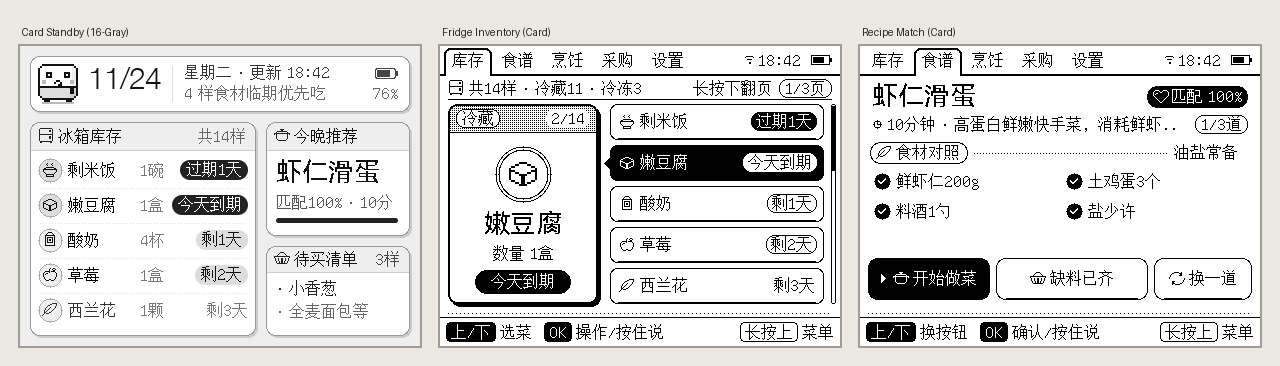
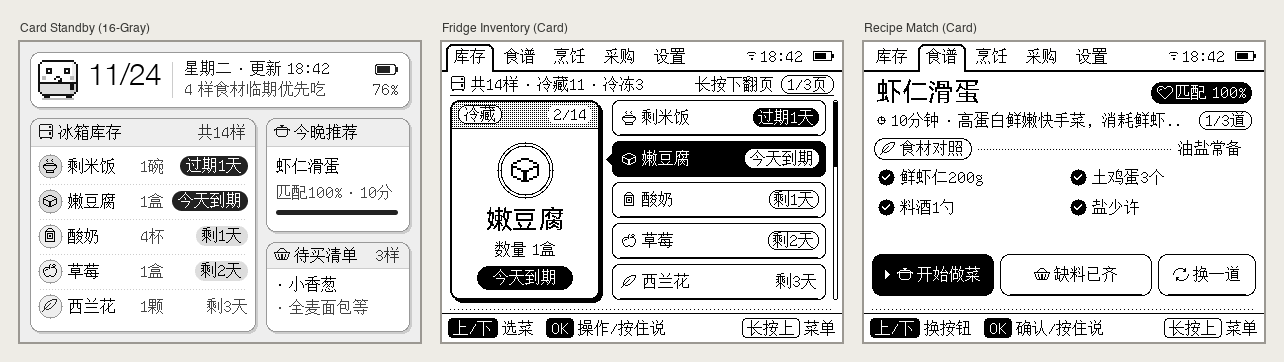
docs(v0.0.3): 更新16灰阶待机封面预览图与v0.0.3刷机说明

diff --git a/README.md b/README.md
@@ -11,8 +11,8 @@
 - **全机双主题同步换肤（手机网页一键切换，立即全刷生效）**
   - **极简高级风**（默认）：MUJI / Apple / Kindle 视觉体系，去杂纹、大留白、细线下划线页签与纯粹瑞士网格排版，从待机到交互与弹窗零割裂。
   - **温馨圆角卡片风**：保留 13 套手绘像素食材图标与温暖手账圆角卡片手感，配套精修无割裂 16 灰阶卡片待机海报。
-- **5 套真 16 灰阶（4bpp）抗锯齿待机封面**
-  - 全部采用**大号抗锯齿日期主角 + 小字更新时间戳**（每天早起自动刷新一次全天不穿帮，唤醒期右上角时钟每分钟静默局刷）；可在手机网页「设置」中随时切换：`MUJI 瑞士双栏日历`、`Apple 极简大日历`、`Kindle 单向历书页`、`原研哉 黑白撞色海报`、`温馨圆角卡片看板`。
+- **5 套真 16 灰阶（4bpp）抗锯齿待机封面 & 3 分钟防残影自动休眠**
+  - 全部采用**大号抗锯齿日期主角 + 均衡黑白灰层级 + 小字更新时间戳**（每天早起自动刷新一次全天不穿帮）；电池供电时无操作 **3 分钟**自动全刷回到 16 灰阶待机封面并深睡停止局刷，唤醒交互期同步收紧局刷次数自动全刷清残影。可在手机网页「设置」中随时切换：`MUJI 瑞士双栏日历`、`Apple 极简大日历`、`Kindle 单向历书页`、`原研哉 黑白撞色海报`、`温馨圆角卡片看板`。
 - **库存管理 + 长按下键整页连翻**
   - 支持最多 **80 样**食材；绝不虚构保质期（未设到期天数时如实显示「今天放入 / 已放 N 天」）。
   - 左焦详情 + 右列 5 项清单，食材超过 5 样时**按住下键即可连续整页翻页**、松手即停不冲过头。
@@ -48,8 +48,8 @@
 
 | 文件名 | 烧录起始地址 | 适用场景 |
 | :--- | :---: | :--- |
-| `zectrix-fridge-v0.0.2-merged-0x0.bin` | `0x0` | **首次安装 / 全新刷入（推荐）**：单文件已合并 bootloader、分区表与主程序 |
-| `zectrix-fridge-v0.0.2-app-0x20000.bin` | `0x20000` | **老版本升级**：仅覆盖应用分区，保留你已有的冰箱库存、菜谱与 Wi-Fi 配置 |
+| `zectrix-fridge-v0.0.3-merged-0x0.bin` | `0x0` | **首次安装 / 全新刷入（推荐）**：单文件已合并 bootloader、分区表与主程序 |
+| `zectrix-fridge-v0.0.3-app-0x20000.bin` | `0x20000` | **老版本升级**：仅覆盖应用分区，保留你已有的冰箱库存、菜谱与 Wi-Fi 配置 |
 | `SHA256SUMS.txt` | — | 固件 SHA-256 校验值 |
 
 ---
@@ -73,9 +73,9 @@
    esptool.py --chip esp32s3 -p <你的串口> -b 460800 \
      --before default_reset --after hard_reset \
      write_flash --flash_mode dio --flash_size 16MB --flash_freq 80m \
-     0x0 zectrix-fridge-v0.0.2-merged-0x0.bin
+     0x0 zectrix-fridge-v0.0.3-merged-0x0.bin
    ```
-   *(若已刷过本固件 旧版本，仅升级主程序并保留库存数据，把最后一行换成 `0x20000 zectrix-fridge-v0.0.2-app-0x20000.bin` 即可。)*
+   *(若已刷过本固件旧版本，仅升级主程序并保留库存数据，把最后一行换成 `0x20000 zectrix-fridge-v0.0.3-app-0x20000.bin` 即可。)*
 
 > **常见串口名称**：macOS 一般为 `/dev/cu.usbmodem*`，Windows 为 `COM3` / `COM4` 等，Linux 为 `/dev/ttyACM0`。
 
@@ -83,7 +83,7 @@
 
 可使用任意支持 ESP32-S3 的网页烧录器（Chrome / Edge 打开 ESP Web Tool 或乐鑫 Flash Download Tool）：
 - 芯片选择 **ESP32-S3**，Flash 模式 **DIO**，频率 **80MHz**，容量 **16MB**
-- 填入烧录地址 **`0x0`**，选择下载的 `zectrix-fridge-v0.0.2-merged-0x0.bin`，点击烧录即可。
+- 填入烧录地址 **`0x0`**，选择下载的 `zectrix-fridge-v0.0.3-merged-0x0.bin`，点击烧录即可。
 
 ---
 
